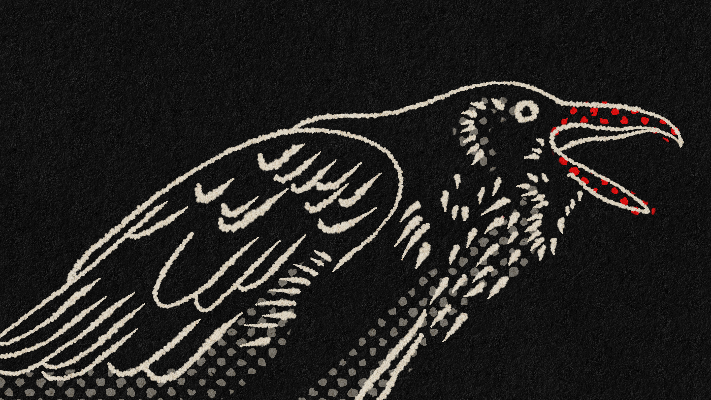
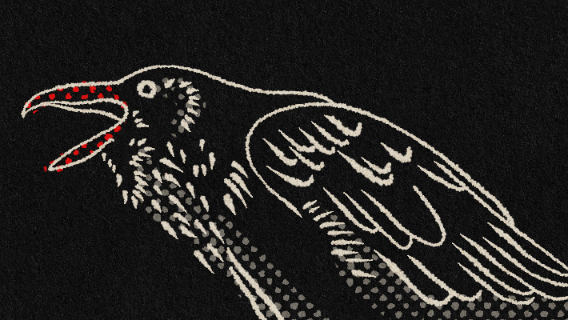
ok let's clean up these bullets

Changed region(s): [[0.0, 0.1875, 1.0, 1.0]]

diff --git a/_pages/ninelivestovalhalla.md b/_pages/ninelivestovalhalla.md
@@ -69,7 +69,7 @@ feature_row5:
 
 {% include feature_row id="feature_row2" type="right" %}
 
-![image-left]({{ "/assets/ninelives/left-image-2-th.png" | relative_url }}){: .align-left}
+![image-right]({{ "/assets/ninelives/left-image-2-th.png" | relative_url }}){: .align-right}
 <h1>Key Features</h1>
 <ul>
   <li>An original rule set designed for high speed carnage across a post-human landscape, where every roll of the dice is a life on the line - sometimes even the GM’s!</li>
